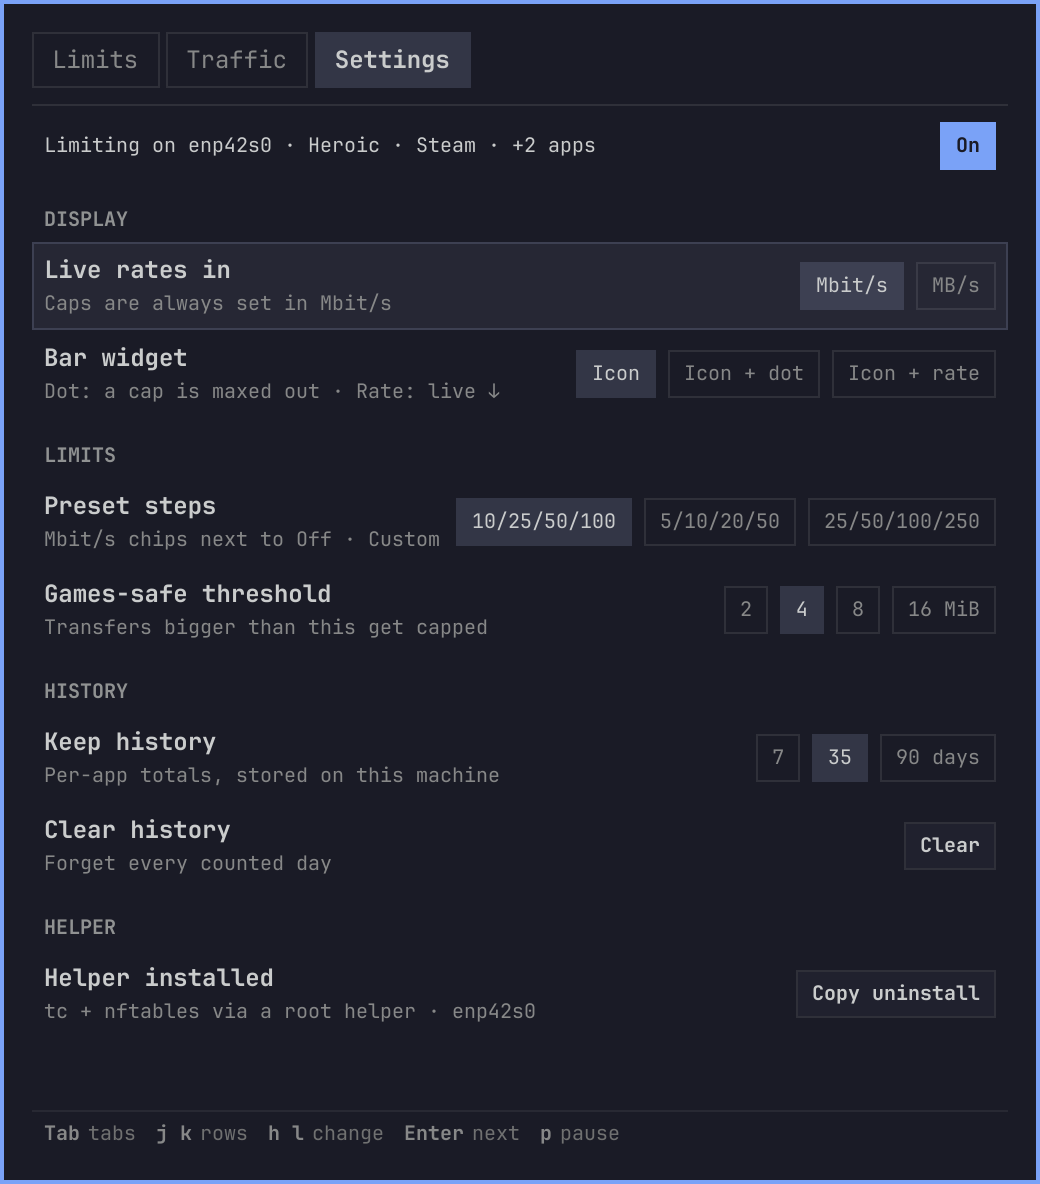
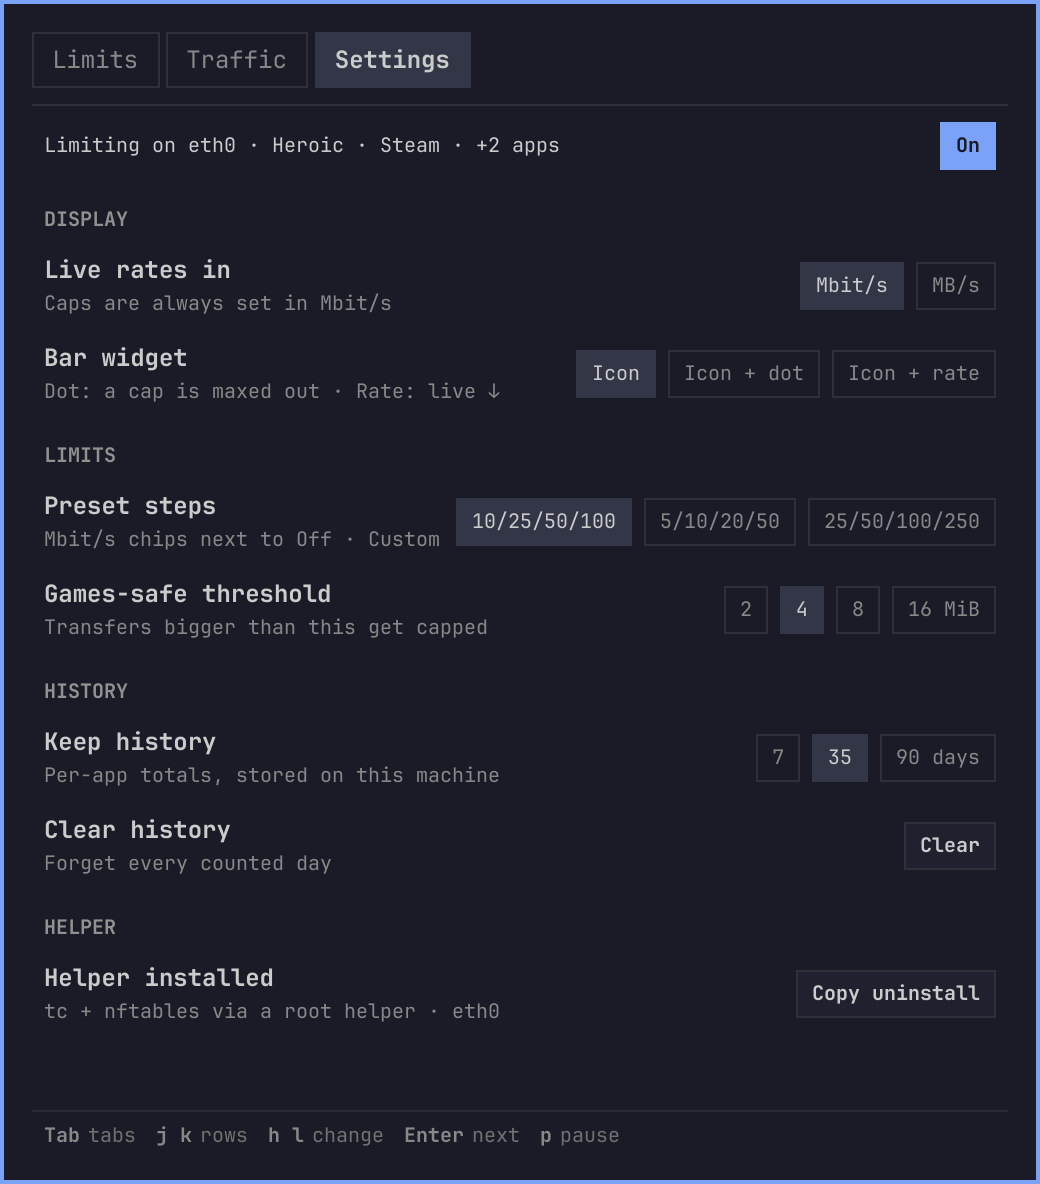
marketplace: previews from FakeStore (tools/render-previews.sh), CI workflow, tests run without a user systemd, License section

diff --git a/tests/preview/FakeStore.qml b/tests/preview/FakeStore.qml
@@ -1,0 +1,79 @@
+// Made-up store for tools/render-previews.sh: the shape of Service.qml with
+// fixed apps, traffic, history and stats. Nothing is read from this machine;
+// every action is a no-op.
+import QtQuick
+
+QtObject {
+  id: root
+  property string mode: "icon"
+  property bool paused: false
+  property bool setup: false
+  property string error: ""
+  property real heroicDown: 1235000
+  property bool noLimit: false
+
+  property var cfg: ({ enabled: !paused, downMbit: 0, upMbit: 0, units: "mbit", barWidget: mode, steps: [10, 25, 50, 100], keepDays: 35, apps: {
+    heroic: { downMbit: 10, upMbit: 0, gamesSafe: true, bulkMiB: 4, label: "Heroic", procs: ["heroic"], preset: true },
+    steam: { downMbit: 25, upMbit: 0, gamesSafe: true, bulkMiB: 4, label: "Steam", procs: ["steam"], preset: true },
+    chrome: { downMbit: 50, upMbit: 10, gamesSafe: false, bulkMiB: 4, label: "Chrome", procs: ["chrome"], preset: false },
+    qbittorrent: { downMbit: 25, upMbit: 5, gamesSafe: false, bulkMiB: 4, label: "qBittorrent", procs: ["qbittorrent"], preset: false } } })
+  property var status: ({ helper: setup ? "missing" : "installed", helperPath: "/usr/local/lib/yoyo-throttle/throttle-helper", iface: "eth0",
+    mode: "apply", applied: true, live: { ifb: true, egress: true }, error: error, changed: false,
+    apps: [ { key: "heroic", running: true, cgroups: ["a", "b"], refused: [], shared: [] },
+            { key: "steam", running: true, cgroups: ["c"], refused: [], shared: [] },
+            { key: "chrome", running: true, cgroups: ["d", "e"], refused: [], shared: [] },
+            { key: "qbittorrent", running: false, cgroups: [], refused: [], shared: [] } ] })
+  property var traffic: ({ iface: { name: "eth0", down: 2410000, up: 96000 }, apps: [
+    { name: "Steam", key: "steam", proc: "steamwebhelper", own: true, down: 1190000, up: 21000, conns: 4 },
+    { name: "Heroic", key: "heroic", proc: "heroic", own: true, down: heroicDown, up: 9000, conns: 2 },
+    { name: "Chrome", key: "chrome", proc: "chrome", own: true, down: 160000, up: 24000, conns: 14 },
+    { name: "spotify", key: "", proc: "spotify", own: true, down: 41000, up: 3000, conns: 3 },
+    { name: "syncthing", key: "", proc: "syncthing", own: true, down: 5000, up: 88000, conns: 11 },
+    { name: "firefox", key: "", proc: "firefox", own: true, down: 6000, up: 2000, conns: 2 } ] })
+  property var stats: ({ today: "2026-10-25", days: (function() {
+    var out = [], G = 1073741824
+    var plan = [[0.4, 0.1, 0.9], [2.1, 0.3, 1.2], [0.2, 0.0, 0.7], [5.6, 0.2, 1.4], [0.6, 3.8, 1.1], [1.2, 0.4, 0.8],
+                [0.3, 0.2, 1.0], [7.9, 0.1, 1.6], [1.4, 4.2, 0.9], [0.5, 0.2, 1.3], [3.3, 0.6, 1.1], [0.8, 0.3, 0.6],
+                [0.2, 0.1, 0.9], [4.4, 0.4, 1.2], [0.9, 6.1, 1.0], [0.4, 0.2, 0.8], [2.6, 0.2, 1.5], [0.3, 0.1, 0.7],
+                [1.1, 0.5, 1.2], [6.2, 0.3, 0.9], [0.6, 2.4, 1.3], [0.2, 0.1, 1.1], [3.9, 0.4, 0.8], [0.7, 0.2, 1.0],
+                [1.8, 5.3, 1.4], [0.3, 0.1, 0.9], [4.8, 0.2, 1.2], [0.5, 1.9, 0.8], [2.2, 0.3, 1.1], [3.1, 1.2, 1.3]]
+    for (var i = 0; i < plan.length; i++) {
+      var d = new Date(Date.UTC(2026, 9, 25 - (plan.length - 1 - i)))
+      var p = plan[i]
+      var apps = [ { name: "Steam", down: p[0] * G, up: 0.02 * G }, { name: "Heroic", down: p[1] * G, up: 0.01 * G },
+                   { name: "Chrome", down: p[2] * G, up: 0.08 * G }, { name: "spotify", down: 0.12 * G, up: 0.01 * G },
+                   { name: "qBittorrent", down: (i % 4 === 0 ? 1.4 : 0.1) * G, up: (i % 4 === 0 ? 2.2 : 0.2) * G } ]
+      var rx = 0, tx = 0
+      for (var j = 0; j < apps.length; j++) { rx += apps[j].down; tx += apps[j].up }
+      out.push({ date: d.toISOString().slice(0, 10), rx: rx * 1.18, tx: tx * 1.25, apps: apps })
+    }
+    return out })() })
+  property var history: (function() {
+    var out = [], now = Date.now()
+    for (var i = 0; i < 60; i++) {
+      var steam = 1150000 + 60000 * Math.sin(i / 3) + (i > 35 ? 0 : -400000 * (1 - i / 35))
+      var heroic = i < 12 ? 300000 + i * 70000 : 1235000 + 20000 * Math.sin(i / 2)
+      var chrome = 160000 + 140000 * Math.max(0, Math.sin(i / 5))
+      var spotify = 41000 + 15000 * Math.sin(i / 4)
+      var other = 120000 + 60000 * Math.sin(i / 7 + 1)
+      out.push({ t: now - (59 - i) * 1500, down: steam + heroic + chrome + spotify + 11000 + other, up: 96000,
+        apps: { Steam: steam, Heroic: heroic, Chrome: chrome, spotify: spotify, syncthing: 5000, firefox: 6000 } })
+    }
+    return out })()
+  property bool statsWanted: false
+  property bool trafficWanted: false
+  property bool limiting: !paused && !setup && error === "" && !noLimit
+  property string installCommand: "sudo bash ~/.config/omarchy/plugins/yoyo.throttle/scripts/install.sh"
+  property string uninstallCommand: "sudo bash ~/.config/omarchy/plugins/yoyo.throttle/scripts/uninstall.sh"
+  function tick(f) {}
+  function setEnabled(on) {}
+  function toggleEnabled() {}
+  function setPatch(p) {}
+  function setApp(a, f, v) {}
+  function setGlobal(f, v) {}
+  function copyInstallCommand() {}
+  function copyUninstallCommand() {}
+  function resetStats() {}
+  function addApp(p, l) { return true }
+  function removeApp(k) {}
+}

diff --git a/tests/preview/bar.qml b/tests/preview/bar.qml
@@ -1,0 +1,73 @@
+// Offscreen bar-widget harness for tools/render-previews.sh: the real
+// BarWidget.qml in each mode/state on FakeStores, in one strip saved to
+// PREVIEW_OUT.
+import QtQuick
+import Quickshell
+import qs.Commons
+import qs.Commons as C
+import "plugin" as T
+import "plugin/tests/preview" as F
+
+ShellRoot {
+  id: shell
+  property string out: Quickshell.env("PREVIEW_OUT") || ""
+  FloatingWindow {
+    id: win
+    implicitWidth: 1100; implicitHeight: 60
+    color: "transparent"
+    Rectangle {
+      id: strip
+      width: row.width + 24; height: 40
+      color: C.Color.background
+      Row {
+        id: row
+        x: 12
+        anchors.verticalCenter: parent.verticalCenter
+        spacing: 28
+        Repeater {
+          model: [
+            { mode: "icon", paused: false, error: "", down: 1235000, label: "icon · limiting" },
+            { mode: "icon", paused: false, error: "", down: 1235000, label: "icon · idle", nolimit: true },
+            { mode: "dot", paused: false, error: "", down: 1235000, label: "dot · cap maxed" },
+            { mode: "rate", paused: false, error: "", down: 1235000, label: "rate" },
+            { mode: "icon", paused: true, error: "", down: 0, label: "paused" },
+            { mode: "icon", paused: false, error: "tc failed", down: 0, label: "error" },
+            { mode: "dot", paused: false, error: "", down: 1235000, label: "dot · vertical bar", vertical: true },
+            { mode: "rate", paused: false, error: "", down: 1235000, label: "rate · vertical (icon only)", vertical: true }
+          ]
+          Row {
+            required property var modelData
+            spacing: 6
+            height: 28
+            Item {
+              id: slot
+              width: modelData.vertical ? 28 : w.implicitWidth; height: w.implicitHeight > 0 ? w.implicitHeight : 26
+              F.FakeStore {
+                id: st
+                mode: modelData.mode; paused: modelData.paused; error: modelData.error; heroicDown: modelData.down; noLimit: modelData.nolimit === true
+              }
+              QtObject {
+                id: fakeBar
+                property color barForeground: C.Color.foreground
+                property color foreground: C.Color.foreground
+                property string fontFamily: C.Style.font.family
+                property bool vertical: modelData.vertical === true
+                property int barSize: modelData.vertical ? 28 : 26
+                property bool foregroundAnimationEnabled: false
+                function showTooltip() {} function hideTooltip() {}
+                property color urgent: C.Color.urgent
+                property var shell: QtObject { function serviceFor(n) { return st } }
+              }
+              T.BarWidget { id: w; bar: fakeBar; width: parent.width; height: parent.height }
+            }
+            Text { anchors.verticalCenter: parent.verticalCenter; text: modelData.label; color: Qt.darker(C.Color.foreground, 1.8); font.family: C.Style.font.family; font.pixelSize: 10 }
+          }
+        }
+      }
+    }
+  }
+  Timer {
+    interval: 3000; running: true
+    onTriggered: strip.grabToImage(function(r) { r.saveToFile(shell.out); console.log("saved", shell.out); Qt.quit() })
+  }
+}

diff --git a/tests/preview/KeyboardPanel.qml b/tests/preview/KeyboardPanel.qml
@@ -1,0 +1,48 @@
+// Preview stub for tools/render-previews.sh: the card of Omarchy's
+// Ui/KeyboardPanel.qml drawn in a plain Item, since the real one is a
+// layer-shell window that cannot map offscreen.
+import QtQuick
+import qs.Commons
+import qs.Commons as Commons
+
+Item {
+  id: root
+  property Item anchorItem: null
+  property QtObject bar: null
+  property var owner: null
+  property int margin: Style.gapsOut
+  property int padding: Style.spacing.popupPadding
+  property int contentWidth: Style.space(280)
+  property int contentHeight: Style.space(200)
+  property var borderSpec: Border.surfaceSpec("popups", "border", Commons.Color.popups.border, Math.max(1, Style.space(2)))
+  property bool centerOnBar: false
+  property bool open: false
+  property int gap: Style.gapsOut
+  property bool popoutSwitching: false
+  property bool popoutSwitchClosing: false
+  property Item focusTarget: null
+  readonly property Item card: card
+  default property alias contentItem: contentHolder.children
+  readonly property real verticalContentInset: padding * 2 + Border.top(borderSpec) + Border.bottom(borderSpec)
+  function close() { open = false }
+  function fittedContentWidth(w, cap) { return Math.round(cap > 0 ? Math.min(w, cap) : w) }
+  function fittedContentHeight(h, cap) { var d = Math.max(verticalContentInset, (Number(h) || 0) + verticalContentInset); return Math.round(cap > 0 ? Math.min(d, cap) : d) }
+  function cappedContentHeight(h) { return Math.round(h) }
+  width: contentWidth; height: contentHeight
+  BorderSurface {
+    id: card
+    width: root.contentWidth; height: root.contentHeight
+    color: Commons.Color.popups.background
+    borderSpec: root.borderSpec
+    padding: root.padding
+    radius: Style.cornerRadius
+    Item {
+      id: contentHolder
+      anchors.fill: parent
+      anchors.topMargin: card.contentTopInset
+      anchors.rightMargin: card.contentRightInset
+      anchors.bottomMargin: card.contentBottomInset
+      anchors.leftMargin: card.contentLeftInset
+    }
+  }
+}

diff --git a/tests/preview/shell.qml b/tests/preview/shell.qml
@@ -1,0 +1,47 @@
+// Offscreen panel harness for tools/render-previews.sh: the real Panel.qml on
+// a FakeStore. PREVIEW_TAB / PREVIEW_SUB / PREVIEW_DETAIL pick the view; the
+// card is saved to PREVIEW_OUT.
+import QtQuick
+import Quickshell
+import "plugin" as P
+import "plugin/tests/preview" as F
+
+ShellRoot {
+  id: shell
+  property string tab: Quickshell.env("PREVIEW_TAB") || "limits"
+  property string sub: Quickshell.env("PREVIEW_SUB") || ""
+  property string detail: Quickshell.env("PREVIEW_DETAIL") || ""
+  property string out: Quickshell.env("PREVIEW_OUT") || ""
+
+  F.FakeStore { id: fake }
+
+  FloatingWindow {
+    implicitWidth: 1100
+    implicitHeight: 1300
+    color: "transparent"
+    P.Panel { id: panel; store: fake; anchors.fill: parent }
+  }
+
+  Timer {
+    interval: 1500; running: true
+    onTriggered: {
+      panel.open()
+      panel.activeTab = shell.tab
+      if (shell.sub && shell.tab === "limits") panel.limitsSub = shell.sub
+      if (shell.sub && shell.tab === "traffic") panel.trafficSub = shell.sub
+      if (shell.detail) panel.openApp(shell.detail)
+      grab.start()
+    }
+  }
+  Timer {
+    id: grab; interval: 1500
+    onTriggered: {
+      var kp = panel.children.filter(function(c) { return c.card !== undefined })[0]
+      kp.card.grabToImage(function(r) {
+        r.saveToFile(shell.out)
+        console.log("saved", shell.out, kp.card.width, kp.card.height)
+        Qt.quit()
+      })
+    }
+  }
+}

diff --git a/README.md b/README.md
@@ -175,6 +175,15 @@ bash tests/netns-e2e.sh    # real shaping inside user + net namespaces (slow)
 bash tools/lint-qml.sh     # qmllint over the plugin's QML: no warnings expected
 ```
 
+CI (`.github/workflows/ci.yml`) runs `tools/sync-ui.sh --check`,
+`tests/model.test.js` and `tests/unit.sh` on Ubuntu for every push and pull
+request; the netns end-to-end test stays local.
+
+The screenshots are rendered offscreen with made-up data, never from a real
+session: `tools/render-previews.sh` (needs `qs` and the Omarchy shell) runs the
+real `Panel.qml` / `BarWidget.qml` against `tests/preview/FakeStore.qml`, so no
+interface, app or traffic from your machine ends up in the images.
+
 Keep logic in `model/*.js` with a test next to the others and the QML
 declarative. QML imports the module it needs (`import "model/apps.js" as
 Apps`), not a facade, so qmllint can check every call.
@@ -184,3 +193,7 @@ The theme, chips, action rows, empty states and key hints come from
 `vendor/yoyo-ui/` (pinned in `vendor/yoyo-ui/VERSION`). Don't edit it here:
 change the library, tag it, then `tools/sync-ui.sh <tag>`. `tests/unit.sh`
 fails if the vendored copy was edited by hand.
+
+## License
+
+MIT — see [LICENSE](LICENSE).
